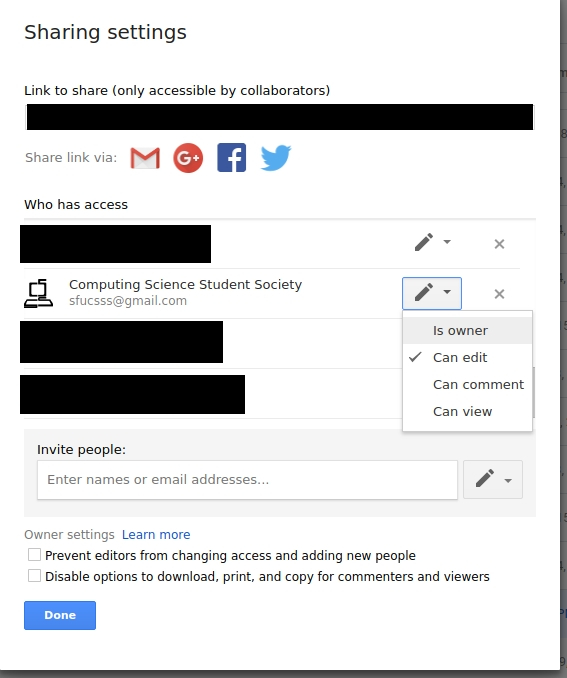
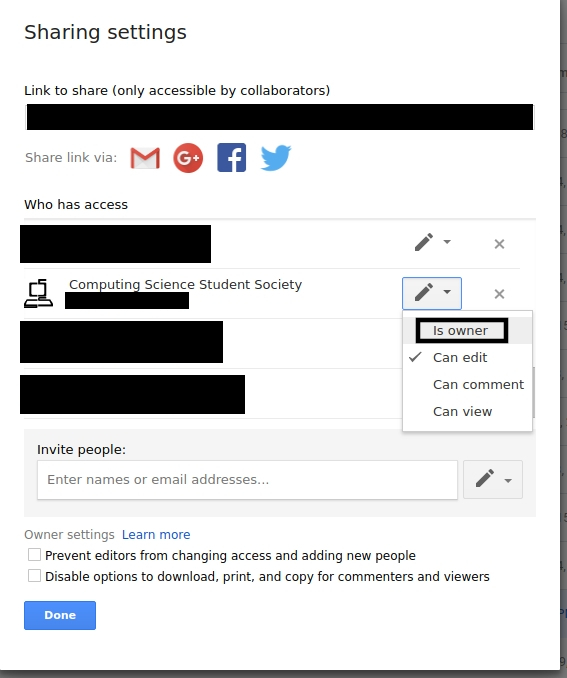
updating the instructions

Changed region(s): [[0.7196, 0.4646, 0.8995, 0.5265], [0.0899, 0.4336, 0.3298, 0.4646]]

diff --git a/README.md b/README.md
@@ -4,6 +4,9 @@ These are instructions on how to transfer the ownership of google documents back
 
 >These only work with files that are created on the google drive and not files that were uploaded to google drive
 
+ 1. Right Click on the file you created and then click "Share"
 ![The One and Only, Lovable Wall-E](screenshot.29.jpg)
+ 1. Click "Advanced"
 ![The One and Only, Lovable Wall-E](screenshot.30.jpg)
+ 1. Scroll to wherever the sfucsss account is and change its permission to "Is owner"
 ![The One and Only, Lovable Wall-E](screenshot.31.jpg)
